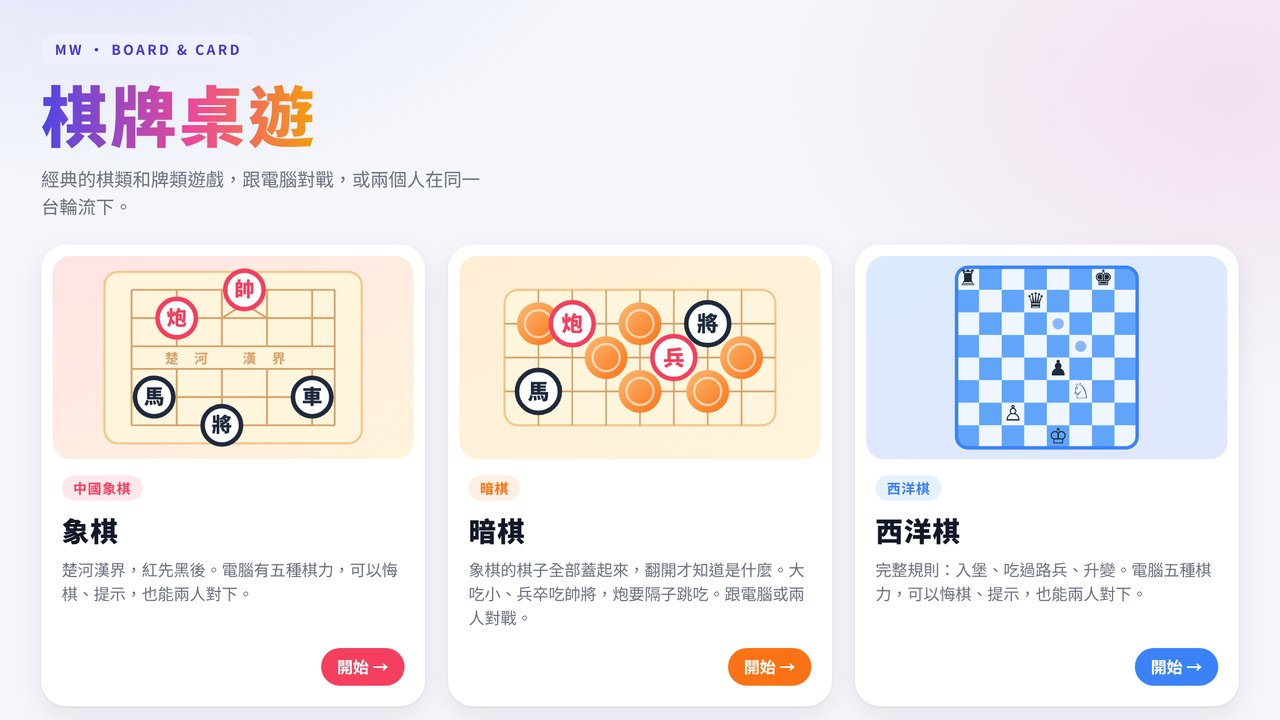
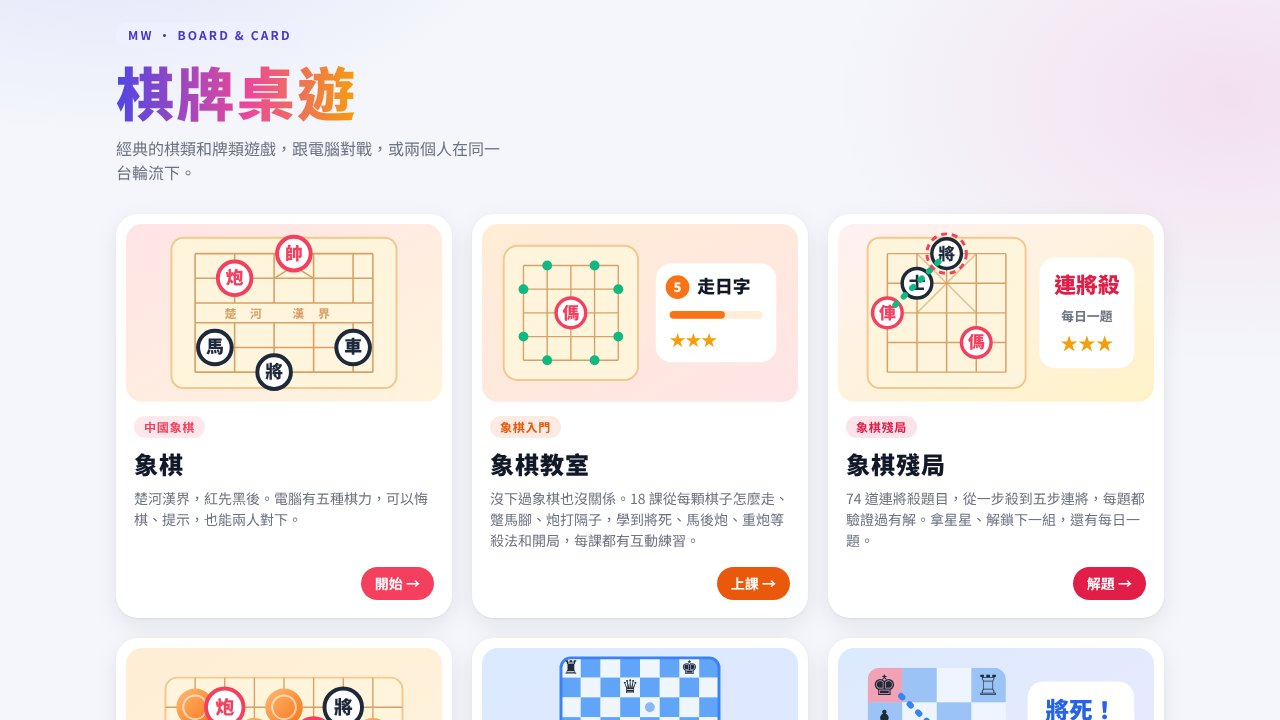
棋牌桌遊：更新大廳截圖與象棋、西洋棋卡片說明
Claude-Session: https://claude.ai/code/session_01Lronwvv3eRUoPWWMjMcKNb

diff --git a/table/index.html b/table/index.html
@@ -63,7 +63,7 @@ a.card.xq{--c:#f43f5e}a.card.gm{--c:#f59e0b}a.card.rv{--c:#10b981}a.card.pk{--c:
           <g transform="translate(90 125)"><circle r="17" fill="#fff" stroke="#1e293b" stroke-width="4"/><text y="6" fill="#1e293b">馬</text></g>
         </g></svg></span>
       <div class="body"><span class="genre">中國象棋</span><h2>象棋</h2>
-        <p>楚河漢界，紅先黑後。電腦有五種棋力，可以悔棋、提示，也能兩人對下。</p>
+        <p>楚河漢界，紅先黑後。電腦有五種棋力，贏了會累積等級分升段；可以悔棋、提示，也能兩人對下。</p>
         <div class="foot"><span class="rec"></span><span class="go">開始 →</span></div></div>
     </a>
     <a class="card xl" href="xq-learn.html" data-g="xq-learn" data-stars="xql:done" data-total="18" data-unit="課">
@@ -113,7 +113,7 @@ a.card.xq{--c:#f43f5e}a.card.gm{--c:#f59e0b}a.card.rv{--c:#10b981}a.card.pk{--c:
     <a class="card ch" href="chess.html" data-g="chess">
       <span class="art"><svg viewBox="0 0 320 180" aria-hidden="true"><defs><linearGradient id="chbg" x1="0" y1="0" x2="1" y2="1"><stop offset="0" stop-color="#dbeafe"/><stop offset="1" stop-color="#e0e7ff"/></linearGradient><clipPath id="chc"><rect x="80" y="10" width="160" height="160" rx="10"/></clipPath></defs><rect width="320" height="180" fill="url(#chbg)"/><g clip-path="url(#chc)"><rect x="80" y="10" width="20" height="20" fill="#eff6ff"/><rect x="100" y="10" width="20" height="20" fill="#60a5fa"/><rect x="120" y="10" width="20" height="20" fill="#eff6ff"/><rect x="140" y="10" width="20" height="20" fill="#60a5fa"/><rect x="160" y="10" width="20" height="20" fill="#eff6ff"/><rect x="180" y="10" width="20" height="20" fill="#60a5fa"/><rect x="200" y="10" width="20" height="20" fill="#eff6ff"/><rect x="220" y="10" width="20" height="20" fill="#60a5fa"/><rect x="80" y="30" width="20" height="20" fill="#60a5fa"/><rect x="100" y="30" width="20" height="20" fill="#eff6ff"/><rect x="120" y="30" width="20" height="20" fill="#60a5fa"/><rect x="140" y="30" width="20" height="20" fill="#eff6ff"/><rect x="160" y="30" width="20" height="20" fill="#60a5fa"/><rect x="180" y="30" width="20" height="20" fill="#eff6ff"/><rect x="200" y="30" width="20" height="20" fill="#60a5fa"/><rect x="220" y="30" width="20" height="20" fill="#eff6ff"/><rect x="80" y="50" width="20" height="20" fill="#eff6ff"/><rect x="100" y="50" width="20" height="20" fill="#60a5fa"/><rect x="120" y="50" width="20" height="20" fill="#eff6ff"/><rect x="140" y="50" width="20" height="20" fill="#60a5fa"/><rect x="160" y="50" width="20" height="20" fill="#eff6ff"/><rect x="180" y="50" width="20" height="20" fill="#60a5fa"/><rect x="200" y="50" width="20" height="20" fill="#eff6ff"/><rect x="220" y="50" width="20" height="20" fill="#60a5fa"/><rect x="80" y="70" width="20" height="20" fill="#60a5fa"/><rect x="100" y="70" width="20" height="20" fill="#eff6ff"/><rect x="120" y="70" width="20" height="20" fill="#60a5fa"/><rect x="140" y="70" width="20" height="20" fill="#eff6ff"/><rect x="160" y="70" width="20" height="20" fill="#60a5fa"/><rect x="180" y="70" width="20" height="20" fill="#eff6ff"/><rect x="200" y="70" width="20" height="20" fill="#60a5fa"/><rect x="220" y="70" width="20" height="20" fill="#eff6ff"/><rect x="80" y="90" width="20" height="20" fill="#eff6ff"/><rect x="100" y="90" width="20" height="20" fill="#60a5fa"/><rect x="120" y="90" width="20" height="20" fill="#eff6ff"/><rect x="140" y="90" width="20" height="20" fill="#60a5fa"/><rect x="160" y="90" width="20" height="20" fill="#eff6ff"/><rect x="180" y="90" width="20" height="20" fill="#60a5fa"/><rect x="200" y="90" width="20" height="20" fill="#eff6ff"/><rect x="220" y="90" width="20" height="20" fill="#60a5fa"/><rect x="80" y="110" width="20" height="20" fill="#60a5fa"/><rect x="100" y="110" width="20" height="20" fill="#eff6ff"/><rect x="120" y="110" width="20" height="20" fill="#60a5fa"/><rect x="140" y="110" width="20" height="20" fill="#eff6ff"/><rect x="160" y="110" width="20" height="20" fill="#60a5fa"/><rect x="180" y="110" width="20" height="20" fill="#eff6ff"/><rect x="200" y="110" width="20" height="20" fill="#60a5fa"/><rect x="220" y="110" width="20" height="20" fill="#eff6ff"/><rect x="80" y="130" width="20" height="20" fill="#eff6ff"/><rect x="100" y="130" width="20" height="20" fill="#60a5fa"/><rect x="120" y="130" width="20" height="20" fill="#eff6ff"/><rect x="140" y="130" width="20" height="20" fill="#60a5fa"/><rect x="160" y="130" width="20" height="20" fill="#eff6ff"/><rect x="180" y="130" width="20" height="20" fill="#60a5fa"/><rect x="200" y="130" width="20" height="20" fill="#eff6ff"/><rect x="220" y="130" width="20" height="20" fill="#60a5fa"/><rect x="80" y="150" width="20" height="20" fill="#60a5fa"/><rect x="100" y="150" width="20" height="20" fill="#eff6ff"/><rect x="120" y="150" width="20" height="20" fill="#60a5fa"/><rect x="140" y="150" width="20" height="20" fill="#eff6ff"/><rect x="160" y="150" width="20" height="20" fill="#60a5fa"/><rect x="180" y="150" width="20" height="20" fill="#eff6ff"/><rect x="200" y="150" width="20" height="20" fill="#60a5fa"/><rect x="220" y="150" width="20" height="20" fill="#eff6ff"/></g><rect x="80" y="10" width="160" height="160" rx="10" fill="none" stroke="#3b82f6" stroke-width="3"/><g font-family="DejaVu Sans,Segoe UI Symbol,Apple Symbols,sans-serif"><text x="170" y="166" font-size="19" text-anchor="middle" fill="#1e293b" stroke="#1e293b" stroke-width="0">♔</text><text x="150" y="46" font-size="19" text-anchor="middle" fill="#1e293b" stroke="#1e293b" stroke-width="0">♛</text><text x="190" y="126" font-size="19" text-anchor="middle" fill="#1e293b" stroke="#1e293b" stroke-width="0">♘</text><text x="90" y="26" font-size="19" text-anchor="middle" fill="#1e293b" stroke="#1e293b" stroke-width="0">♜</text><text x="210" y="26" font-size="19" text-anchor="middle" fill="#1e293b" stroke="#1e293b" stroke-width="0">♚</text><text x="130" y="146" font-size="19" text-anchor="middle" fill="#1e293b" stroke="#1e293b" stroke-width="0">♙</text><text x="170" y="106" font-size="19" text-anchor="middle" fill="#1e293b" stroke="#1e293b" stroke-width="0">♟</text></g><circle cx="190" cy="80" r="5" fill="#3b82f6" opacity=".55"/><circle cx="170" cy="60" r="5" fill="#3b82f6" opacity=".55"/></svg></span>
       <div class="body"><span class="genre">西洋棋</span><h2>西洋棋</h2>
-        <p>完整規則：入堡、吃過路兵、升變。電腦五種棋力，可以悔棋、提示，也能兩人對下。</p>
+        <p>完整規則：入堡、吃過路兵、升變。電腦五種棋力和等級分天梯，可以悔棋、提示，也能兩人對下。</p>
         <div class="foot"><span class="rec"></span><span class="go">開始 →</span></div></div>
     </a>
     <a class="card cp" href="chess-puzzle.html" data-g="chess-puzzle" data-stars="chp:stars" data-total="56">
